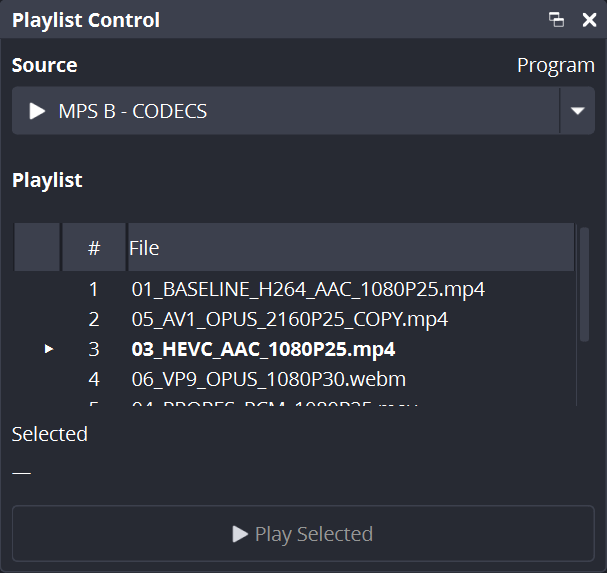
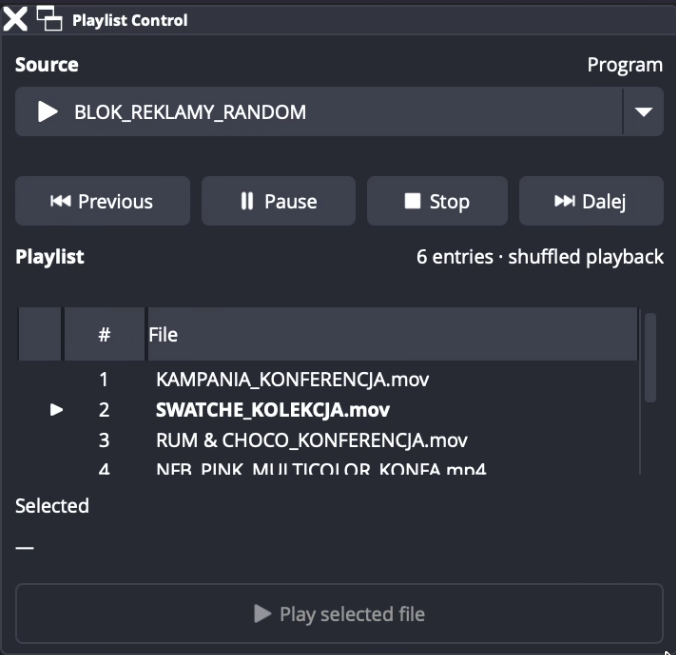
docs: simplify README and reorganize integration guides

diff --git a/docs/playlist-telemetry.md b/docs/playlist-telemetry.md
@@ -1,10 +1,25 @@
-# Playlist WebSocket API — schema v1
+# Playlist WebSocket API
 
-Use obs-websocket v5 `CallVendorRequest` with vendor `media-playlist-source`.
-Every request identifies an MPS source by exact `source_uuid` (preferred) or
-`source_name`. If both are supplied, they must identify the same source.
+Read playback information, browse playlist entries and control MPS through
+[obs-websocket v5](https://github.com/obsproject/obs-websocket/blob/master/docs/generated/protocol.md). The vendor name is `media-playlist-source`; data uses schema v1.
 
-## Request format
+## 1. Connect and choose a source
+
+Enable **Tools → WebSocket Server Settings** in OBS, then connect and authenticate
+your client using the address, port (default `4455`) and password shown there.
+
+Every MPS request needs either `source_uuid` (recommended) or the exact
+`source_name`. If you provide both, they must identify the same MPS source.
+
+In Companion's OBS Studio connection, choose **Custom – Send Vendor Request**:
+
+| Field | Example |
+| --- | --- |
+| Vendor name | `media-playlist-source` |
+| Request type | `GetPlaylistState` |
+| Request data | `{"source_name":"My Playlist"}` |
+
+For other clients, the full WebSocket request is:
 
 ```json
 {
@@ -21,105 +36,132 @@ Every request identifies an MPS source by exact `source_uuid` (preferred) or
 }
 ```
 
-Check both `d.requestStatus.result` and
-`d.responseData.responseData.success` in the response. Vendor errors return
-`success: false` and `error: {code, message}` even when the outer request succeeds.
-Common codes: `missing`, `invalid`, `ambiguous`, `mismatch`, `notMPS`, `unavailable`.
+The examples below show the **inner request data**. Keep the same outer envelope
+and change its vendor `requestType` to the operation you need.
 
-## GetPlaylistState
+## 2. Read playback — GetPlaylistState
 
-Returns `success`, `schema_version: 1` and the following snapshot fields.
-Unknown or inapplicable fields are omitted.
+Returns `success`, `schema_version: 1` and a snapshot. Unknown or inapplicable
+fields are omitted, except the three `*_known` flags, which are always present.
 
-| Field | Meaning |
+| Information | Fields |
 | --- | --- |
-| `source_uuid`, `source_name` | Source identity and display name |
-| `snapshot_revision` | Observation revision; continuous clock samples can share a revision |
-| `state` | `playing`, `paused`, `stopped`, `ended`, `unknown` |
-| `current_item_id` | Entry UUID, or `parent_uuid/filename` for a folder child |
-| `current_path`, `current_file` | Active decoder's path and filename |
-| `playlist_index`, `folder_item_index` | Zero-based indices; child index only for folder children |
-| `elapsed_media_ms`, `duration_media_ms` | Original media-clock milliseconds |
-| `speed_percent` | Effective playback speed |
-| `remaining_known`, `remaining_ms` | Current item's remaining real time |
-| `playlist_remaining_known`, `playlist_remaining_ms` | Current pass's remaining real time |
-| `items_remaining_known`, `items_remaining` | Playable entries after the current item |
-| `shuffle`, `loop`, `has_next`, `has_previous` | Playback and queue flags |
+| Source | `source_uuid`, `source_name` |
+| State | `state`: `playing`, `paused`, `stopped`, `ended`, `unknown` |
+| Playing entry | `current_item_id`, `current_file`, `current_path` |
+| Position in playlist | `playlist_index`, `folder_item_index` (folder children only); both zero-based |
+| Media clock | `elapsed_media_ms`, `duration_media_ms`, `speed_percent` |
+| Current file remaining | `remaining_known` → `remaining_ms` |
+| Current pass remaining | `playlist_remaining_known` → `playlist_remaining_ms` |
+| Entries after current | `items_remaining_known` → `items_remaining` |
+| Modes/navigation | `shuffle`, `loop`, `has_next`, `has_previous` |
+| Observation revision | `snapshot_revision` |
 
-### Time and unknown values
+`current_item_id` is a top-level entry UUID or `parent_uuid/filename` for a folder
+child. Identity and timing describe the active decoder, not a pending selection.
 
-- All three `*_known` flags are always present. False means the associated value
-  is absent; true means a non-negative integer. Zero means actual zero, never unknown.
-- Remaining times are milliseconds adjusted for speed. A 120-second local clip
-  at 200% starts with `remaining_ms: 60000`; its media duration stays `120000`.
-  URL/non-local inputs use 100%.
-- Playlist remaining includes the current remainder and unplayed entries in the
-  current pass/shuffle cycle. Loop does not add another cycle. Duplicates count
-  separately; folder children count individually. Reads do not change shuffle.
-- Pause does not subtract wall time. Current identity and clocks describe the
-  active decoder, not a selection waiting to start.
-- Future durations are discovered asynchronously for local files. URLs, invalid
-  files and resource limits can leave totals unknown; known counts do not imply
-  known durations. Discovery is bounded to 4096 entries per source and 8192 cached
-  entries process-wide, with a 4096-byte path limit including its terminator.
+### Understand the times
 
-## PlaylistStateChanged
+- All times are milliseconds. Media-clock fields describe the original file;
+  remaining times account for speed. A 120-second local file at 200% starts with
+  `remaining_ms: 60000`, while `duration_media_ms` stays `120000`.
+- Playlist remaining means the current file's remainder plus unplayed entries
+  in the current pass/shuffle cycle. Loop does not add another cycle. The API
+  still provides this value with Loop on, although the Queue dock hides it.
+- Folder children and duplicate entries count separately. Reading state does not
+  change shuffle. Pause freezes playback time; newly discovered durations may
+  still make a previously unknown total available.
+- A false `*_known` flag means its value field is absent. True means a
+  non-negative integer. **Zero is real zero**, never a substitute for unknown.
+- Local-file durations are discovered in the background. URLs, unreadable files
+  and resource limits may leave totals unknown. Non-local inputs use 100% speed.
 
-Subscribe to **Vendors** (`512`, combined with other required subscriptions).
-OBS sends `op: 5` / `d.eventType: "VendorEvent"` with:
+## 3. Browse the playlist — GetPlaylistEntries
 
 ```json
-{
-  "vendorName": "media-playlist-source",
-  "eventType": "PlaylistStateChanged",
-  "eventData": {"...": "full snapshot fields"}
-}
+{"source_name":"My Playlist","offset":0,"limit":100}
 ```
 
-This object is inside `d.eventData`. Each event contains a full snapshot, not a
-patch. Playing-clock updates are approximately 1 Hz; unchanged paused/stopped
-snapshots are not repeated. Optional `trigger` is `state` or `elapsed`.
+`offset` is a non-negative integer; `limit` is 1–200 (default 100).
 
-Request a snapshot on connect/reconnect, filter by source UUID, and discard state
-when the source is removed. Equal revisions can carry newer clock samples;
-seek/restart changes the revision. Events are not a replay log.
-
-## GetPlaylistEntries
-
-Request data: source identifier plus optional `offset` (default 0) and `limit`
-(default 100, range 1–200), both integers. Continuation pages (`offset > 0`)
-require the first page's positive `playlist_revision`. On `stale`, restart at 0.
-
-Returns `success`, `schema_version`, source identity, `playlist_revision`,
-`total_count`, `offset`, `count`, `has_more`, `entries`, `shuffle`, `loop`, and
-`next_offset` only when more entries exist. Empty `entries` is `[]`.
+The response contains source identity, `success`, `schema_version`,
+`playlist_revision`, `total_count`, `offset`, `count`, `entries`, `has_more`,
+`shuffle` and `loop`. `next_offset` appears only when more entries exist;
+an empty list is `[]`.
 
 Each entry contains `item_id`, `filename`, `path`, `playlist_index`, `is_folder`,
 `selectable`, `is_selected`, and `folder_item_index` for children. Folder headers
-are not selectable. Duplicate paths have separate identities. `is_selected` is
-logical selection; use `GetPlaylistState.current_item_id` for actual playback.
+are not selectable; duplicate paths remain distinct entries.
 
-## SelectPlaylistItem
+For every subsequent page (`offset > 0`), send the first page's positive
+`playlist_revision`. If the response reports `stale`, restart at offset zero.
 
-Request data: source identifier, `item_id` from `GetPlaylistEntries`, and optional
-positive `playlist_revision` (recommended to reject stale selections).
+`is_selected` marks logical selection. Use `GetPlaylistState.current_item_id`
+to determine which entry is actually playing.
 
-IDs must be nonblank and at most 4096 bytes. Invalid/ambiguous IDs, folder headers
-and revision mismatches return `invalid_or_stale`. A removed/resetting source or
-unavailable video subsystem returns `unavailable`.
+## 4. Control playback
 
-`success: true, accepted: true` confirms acceptance, not that playback has switched.
-Observe the state snapshot/event for the actual playing item; do not blindly retry
-an uncertain selection.
+### SelectPlaylistItem
 
-## SetPlaybackOptions
+Use an `item_id` from the playlist response. Include its revision to avoid
+selecting from an outdated list:
 
-Request data: source identifier and at least one JSON boolean, `shuffle` or `loop`.
-These assign values rather than toggle them; other source settings are preserved.
-`success: true, accepted: true` confirms acceptance. Observe telemetry for the
-applied state.
+```json
+{"source_name":"My Playlist","item_id":"entry-uuid","playlist_revision":12}
+```
 
-For play, pause, stop, next, previous, restart and seek, use standard OBS requests
-`TriggerMediaInputAction` and `SetMediaInputCursor`.
+`playlist_revision` is optional but must be a positive integer when supplied.
+`item_id` must be nonblank and at most 4096 bytes. Folder headers, missing or
+ambiguous IDs and revision mismatches return `invalid_or_stale`.
 
-See [runtime checks](../tests/playlist-telemetry.md) for manual validation.
+### SetPlaybackOptions
+
+```json
+{"source_name":"My Playlist","shuffle":true,"loop":false}
+```
+
+Supply at least one actual JSON boolean. Values are assignments, not toggles;
+other settings are preserved.
+
+For both controls, `success: true, accepted: true` confirms acceptance, not that
+playback has already changed. Observe state updates for the applied result.
+Do not blindly retry an uncertain selection.
+
+For play, pause, stop, next, previous and restart, use OBS's standard
+`TriggerMediaInputAction`; use `SetMediaInputCursor` for seeking.
+
+## 5. Receive live updates — PlaylistStateChanged
+
+Subscribe to **Vendors** (`512`, combined with other required event subscriptions).
+Request an initial snapshot on connect/reconnect, then handle `op: 5` events:
+
+| WebSocket field | Value |
+| --- | --- |
+| `d.eventType` | `VendorEvent` |
+| `d.eventData.vendorName` | `media-playlist-source` |
+| `d.eventData.eventType` | `PlaylistStateChanged` |
+| `d.eventData.eventData` | Full snapshot, with optional `trigger`: `state` or `elapsed` |
+
+Filter by source UUID. Playing-clock updates are approximately 1 Hz; unchanged
+paused/stopped snapshots are not repeated. Discard state when a source is removed.
+
+Continuous clock samples can share `snapshot_revision`; do not discard them just
+because the revision is equal. Within a playing revision, an older clock sample
+should not replace a newer one. Seek/restart changes the revision. Reconnect needs
+a fresh baseline: events are not a replay log.
+
+## Errors and limits
+
+For request responses (`op: 7`), check both `d.requestStatus.result` and the inner
+`d.responseData.responseData.success`. A successful outer request can contain an
+MPS error: `success: false` with `error: {code, message}`.
+
+Common codes: `missing`, `invalid`, `ambiguous`, `mismatch`, `notMPS`, `unavailable`.
+Playlist paging also uses `stale`; selection uses `invalid_or_stale`.
+
+Duration discovery is bounded to 4096 entries per source and 8192 cached entries
+process-wide, with a 4096-byte path limit including its terminator. Exceeding
+limits leaves affected durations unknown.
+
+See [developer integration](developer-integration.md) for settings/native access
+and [runtime checks](../tests/playlist-telemetry.md) for manual validation.

diff --git a/README.md b/README.md
@@ -23,34 +23,15 @@ The fork started as a production-focused fix for visible gaps between playlist i
 
 The original plugin was created by Ian Rodriguez / CodeYan01.
 
-## Latest additions (develop)
-
-- **Playlist timing:** remaining time for the current file and playlist pass, adjusted for playback speed. The Queue dock hides the playlist countdown while Loop is on.
-- **Playback controls:** Previous, Play/Pause, Stop and Next in Playlist Control, with an optional toolbar. Shuffle and Loop are available from both docks' right-click menus.
-- **Fresh shuffle:** preserve the existing cycle or start a fresh cycle when the source becomes active.
-- **Folder monitoring:** optional background refresh for added, removed and changed files, with filename/date sorting, a configurable interval and a file-stability check. Disabled by default.
-- **WebSocket integration:** read playlist state and entries, select items, and change Shuffle/Loop from external clients.
-
 ## Features
 
-- **Playlist Queue** dock showing Previous, Now Playing and Up Next, including duration, playback progress and Program-scene status.
-- **Playlist Control** dock for browsing the configured playlist and safely starting any selected file or folder item.
-- Optional **Follow Program MPS** mode for both docks, available from their right-click menus.
-- Plays playlists of local files, folders, and URLs supported by FFmpeg.
-- Allows editing the playlist without restarting playback, including reordering items.
-- Allows editing source settings without restarting the current video.
-- Saves the currently playing file so it can be resumed when OBS restarts.
-- Allows selecting a file or folder item directly from the playlist.
-- Uses VLC 4-style shuffle behavior:
-  - Items can be added or removed without reshuffling the already established history.
-  - Previously played items remain available through Previous Item.
-  - Selecting a file or folder item does not break shuffle history.
-  - The playlist reshuffles after the last file is played without discarding history.
-- Shows the filename of the current file in the Properties window.
-- Can start with either the first file or the previously current file when the source is restarted.
-- Preloads the next local video and switches between internal A/B decoders to avoid the blank or transparent frame that can otherwise appear between consecutive files.
-- Routes decoder audio through the parent Media Playlist Source so its mixer gain, mute state, filters, and OBS track routing remain authoritative.
-- Both docks are available through OBS's **Docks** menu.
+- Play local files, folders and FFmpeg-supported URLs, with seamless A/B video transitions and OBS mixer audio control.
+- **Playlist Queue:** Previous, Now Playing and Up Next, progress and remaining time. The playlist countdown is hidden while Loop is on.
+- **Playlist Control:** browse and start individual entries, with an optional playback toolbar.
+- **Right-click options:** Follow Program MPS, Shuffle and Loop in both docks.
+- Shuffle with playback history and optional fresh shuffle on activation.
+- Optional folder monitoring with filename/date sorting and file-stability checks.
+- Edit playlists during playback, remember the current entry across OBS restarts, and integrate through obs-websocket.
 
 ## Installation
 
@@ -66,10 +47,9 @@ The current build configuration targets OBS Studio 31.1.1 and the fork is tested
 
 ## Limitations
 
-- The Properties window shows the current filename, but it cannot be updated automatically when playback advances because doing so can cause OBS to crash while the Properties window is being interacted with. Reopening Properties refreshes the displayed filename.
-- Programmatic playlist updates must preserve or provide each entry's `uuid`. OBS generates and preserves those IDs for editable-list changes made in the Properties UI; the plugin uses them to keep duplicate entries and the current item distinct. See [OBS PR #11126](https://github.com/obsproject/obs-studio/pull/11126).
-- Audio track and subtitle selection are not supported yet.
-- Folder monitoring uses stable size and modification time to delay files still being written; it cannot guarantee another application has finished writing.
+- The current filename in Properties does not refresh continuously; reopen the window to update it.
+- Choosing between embedded audio or subtitle tracks (e.g. different languages) is not supported.
+- File-stability checks help avoid unfinished copies, but cannot guarantee completion.
 
 ## WebSocket integration
 
@@ -84,29 +64,10 @@ Other obs-websocket v5 clients use `CallVendorRequest`. See the [API reference](
 
 ## For developers
 
-To inspect the keys stored in the source [settings](https://docs.obsproject.com/reference-sources#c.obs_source_get_settings), use [obs_data_get_json](https://docs.obsproject.com/reference-settings#c.obs_data_get_json) or inspect the scene collection JSON. The implementation is in [`src/media-playlist-source.c`](src/media-playlist-source.c).
-
-To select a file programmatically:
-
-```c
-proc_handler_t *ph = obs_source_get_proc_handler(source);
-struct calldata cd = {0};
-calldata_set_int(&cd, "media_index", 3); // 4th file
-calldata_set_int(&cd, "folder_item_index", 3); // 4th folder item of the 4th file
-proc_handler_call(ph, "select_index", &cd);
-calldata_free(&cd);
-```
-
-`media_index` is the zero-based index of the file in the playlist.
-
-`folder_item_index` is the zero-based index of the folder item inside the folder at `media_index`.
-
-If the item at `media_index` is not a folder, `folder_item_index` is ignored. Out-of-range indexes are reset to `0`.
+See [integration notes](docs/developer-integration.md) for source settings, playlist IDs and the legacy native selection procedure, or the [WebSocket API](docs/playlist-telemetry.md) for external clients.
 
 ## Development and testing
 
 Development of this fork uses AI-assisted coding tools where useful, but changes are reviewed, compiled in CI, and validated in OBS before being relied on in production.
-
-Linux CI runs CTest; Windows CI also runs native folder tests. Vendor wire-contract tests use obs-websocket's JSON converter and require the **test-only** `nlohmann-json3-dev` package on Ubuntu. Use `-DBUILD_TESTING=OFF` to omit tests. The opt-in duration-probing benchmark target is `duration-probe-benchmark`.
 
 Release validation notes are kept in [docs/release-notes](docs/release-notes), and the manual regression checklist is available in [tests/manual-regression.md](tests/manual-regression.md).

diff --git a/docs/developer-integration.md b/docs/developer-integration.md
@@ -1,0 +1,37 @@
+# Developer integration
+
+For Companion and other external clients, use the [WebSocket API](playlist-telemetry.md).
+It provides stable entry IDs, revision checks and selection on OBS's graphics thread.
+
+## Source settings and entry IDs
+
+Inspect source settings with `obs_source_get_settings()` / `obs_data_get_json()`,
+or inspect the saved scene collection. Implementation: [media-playlist-source.c](../src/media-playlist-source.c).
+
+When replacing the `playlist` array programmatically, preserve existing entry
+`uuid` values and assign a distinct UUID to each new top-level entry, including
+duplicate paths. MPS uses these IDs to retain current selection and shuffle history.
+OBS supplies them when entries are edited through its Properties UI; this does
+not cover JSON arrays constructed by external scripts.
+
+## Legacy native selection
+
+The `select_index` source procedure remains available for existing in-process
+integrations. For new clients, prefer `GetPlaylistEntries` + `SelectPlaylistItem`.
+
+```c
+proc_handler_t *ph = obs_source_get_proc_handler(source);
+struct calldata cd = {0};
+calldata_set_int(&cd, "media_index", 3);
+calldata_set_int(&cd, "folder_item_index", 3);
+proc_handler_call(ph, "select_index", &cd);
+calldata_free(&cd);
+```
+
+Indices are zero-based: this selects the fourth child of the fourth top-level
+entry. For a standalone file, the child index is ignored. Invalid top-level
+indices are ignored; an invalid child index falls back to zero.
+
+Call on OBS's graphics thread, with a valid source reference, a valid playable
+target and a non-empty target folder. Serialize the call with playlist updates;
+indices can change after edits or folder monitoring.
